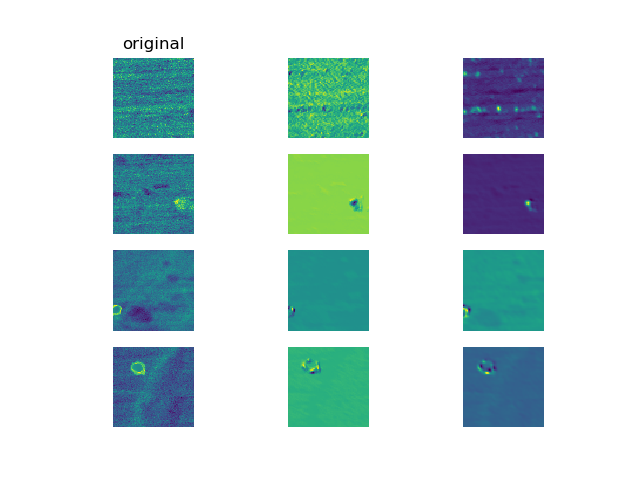
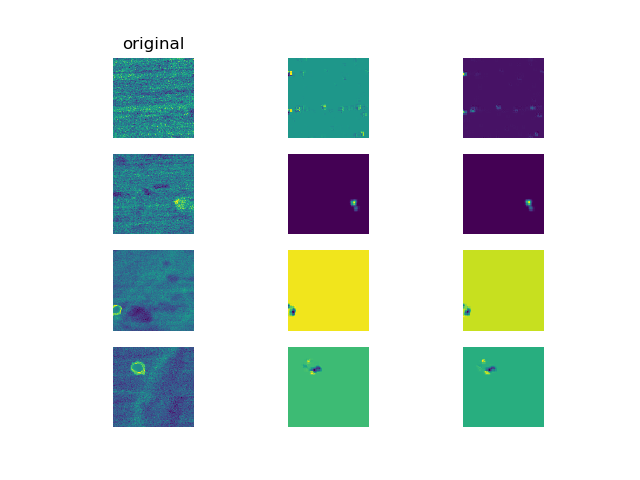
end of day

diff --git a/LargeFOV/make_norm.py b/LargeFOV/make_norm.py
@@ -23,7 +23,7 @@ ValNo = not_normed['ValNo']
 ValYes = not_normed['ValYes']
 
 
-normed = h5.File(os.path.join(Dir, 'FOV150_Num10000_normed.hdf5'), 'w')
+normed = h5.File(os.path.join(Dir, 'FOV150_Num10000_normed_01.hdf5'), 'w')
 normed.attrs.create('FOVSize', FOVSize)
 normed.attrs.create("NumFOVs", NumFOVs)
 normed.attrs.create('Foils', Foils)
@@ -70,7 +70,7 @@ def norm(dataset):
 	q = np.reshape(q, s)
 
 	new = (new - p) / (q - p)
-	new = new - .5
+	#new = new - .5
 	return new
 
 new_TrainYes = norm(TrainYes)
